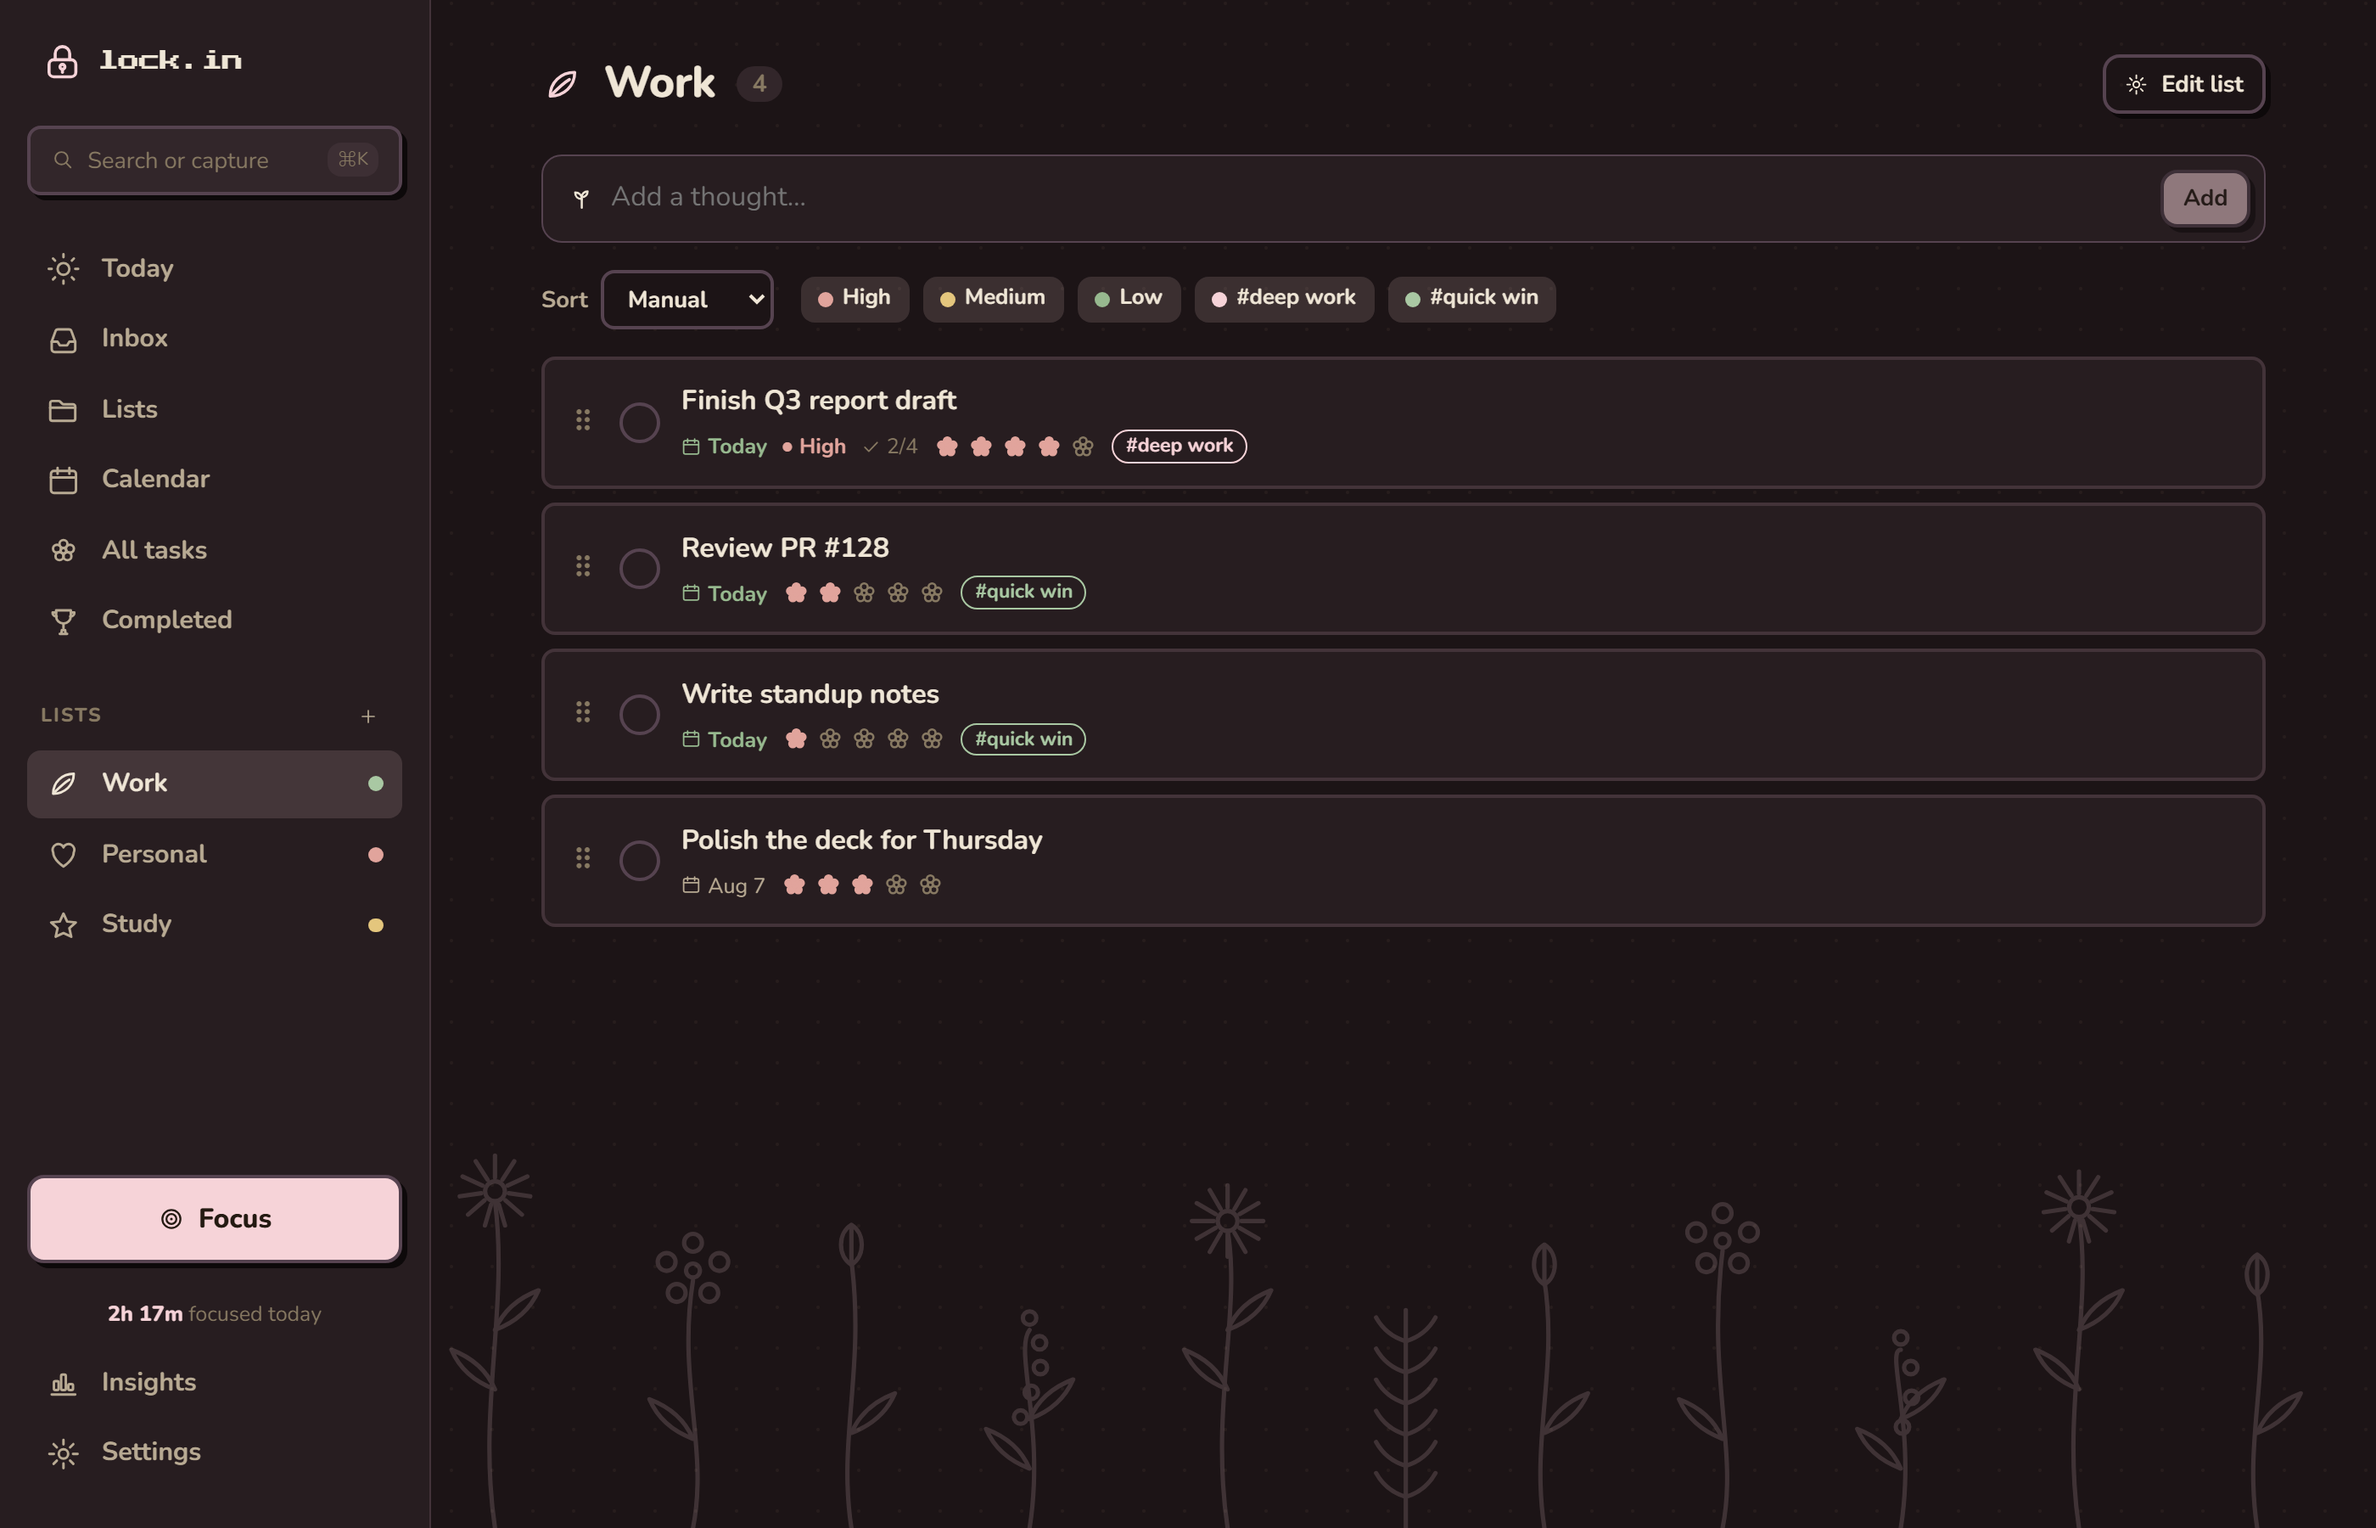
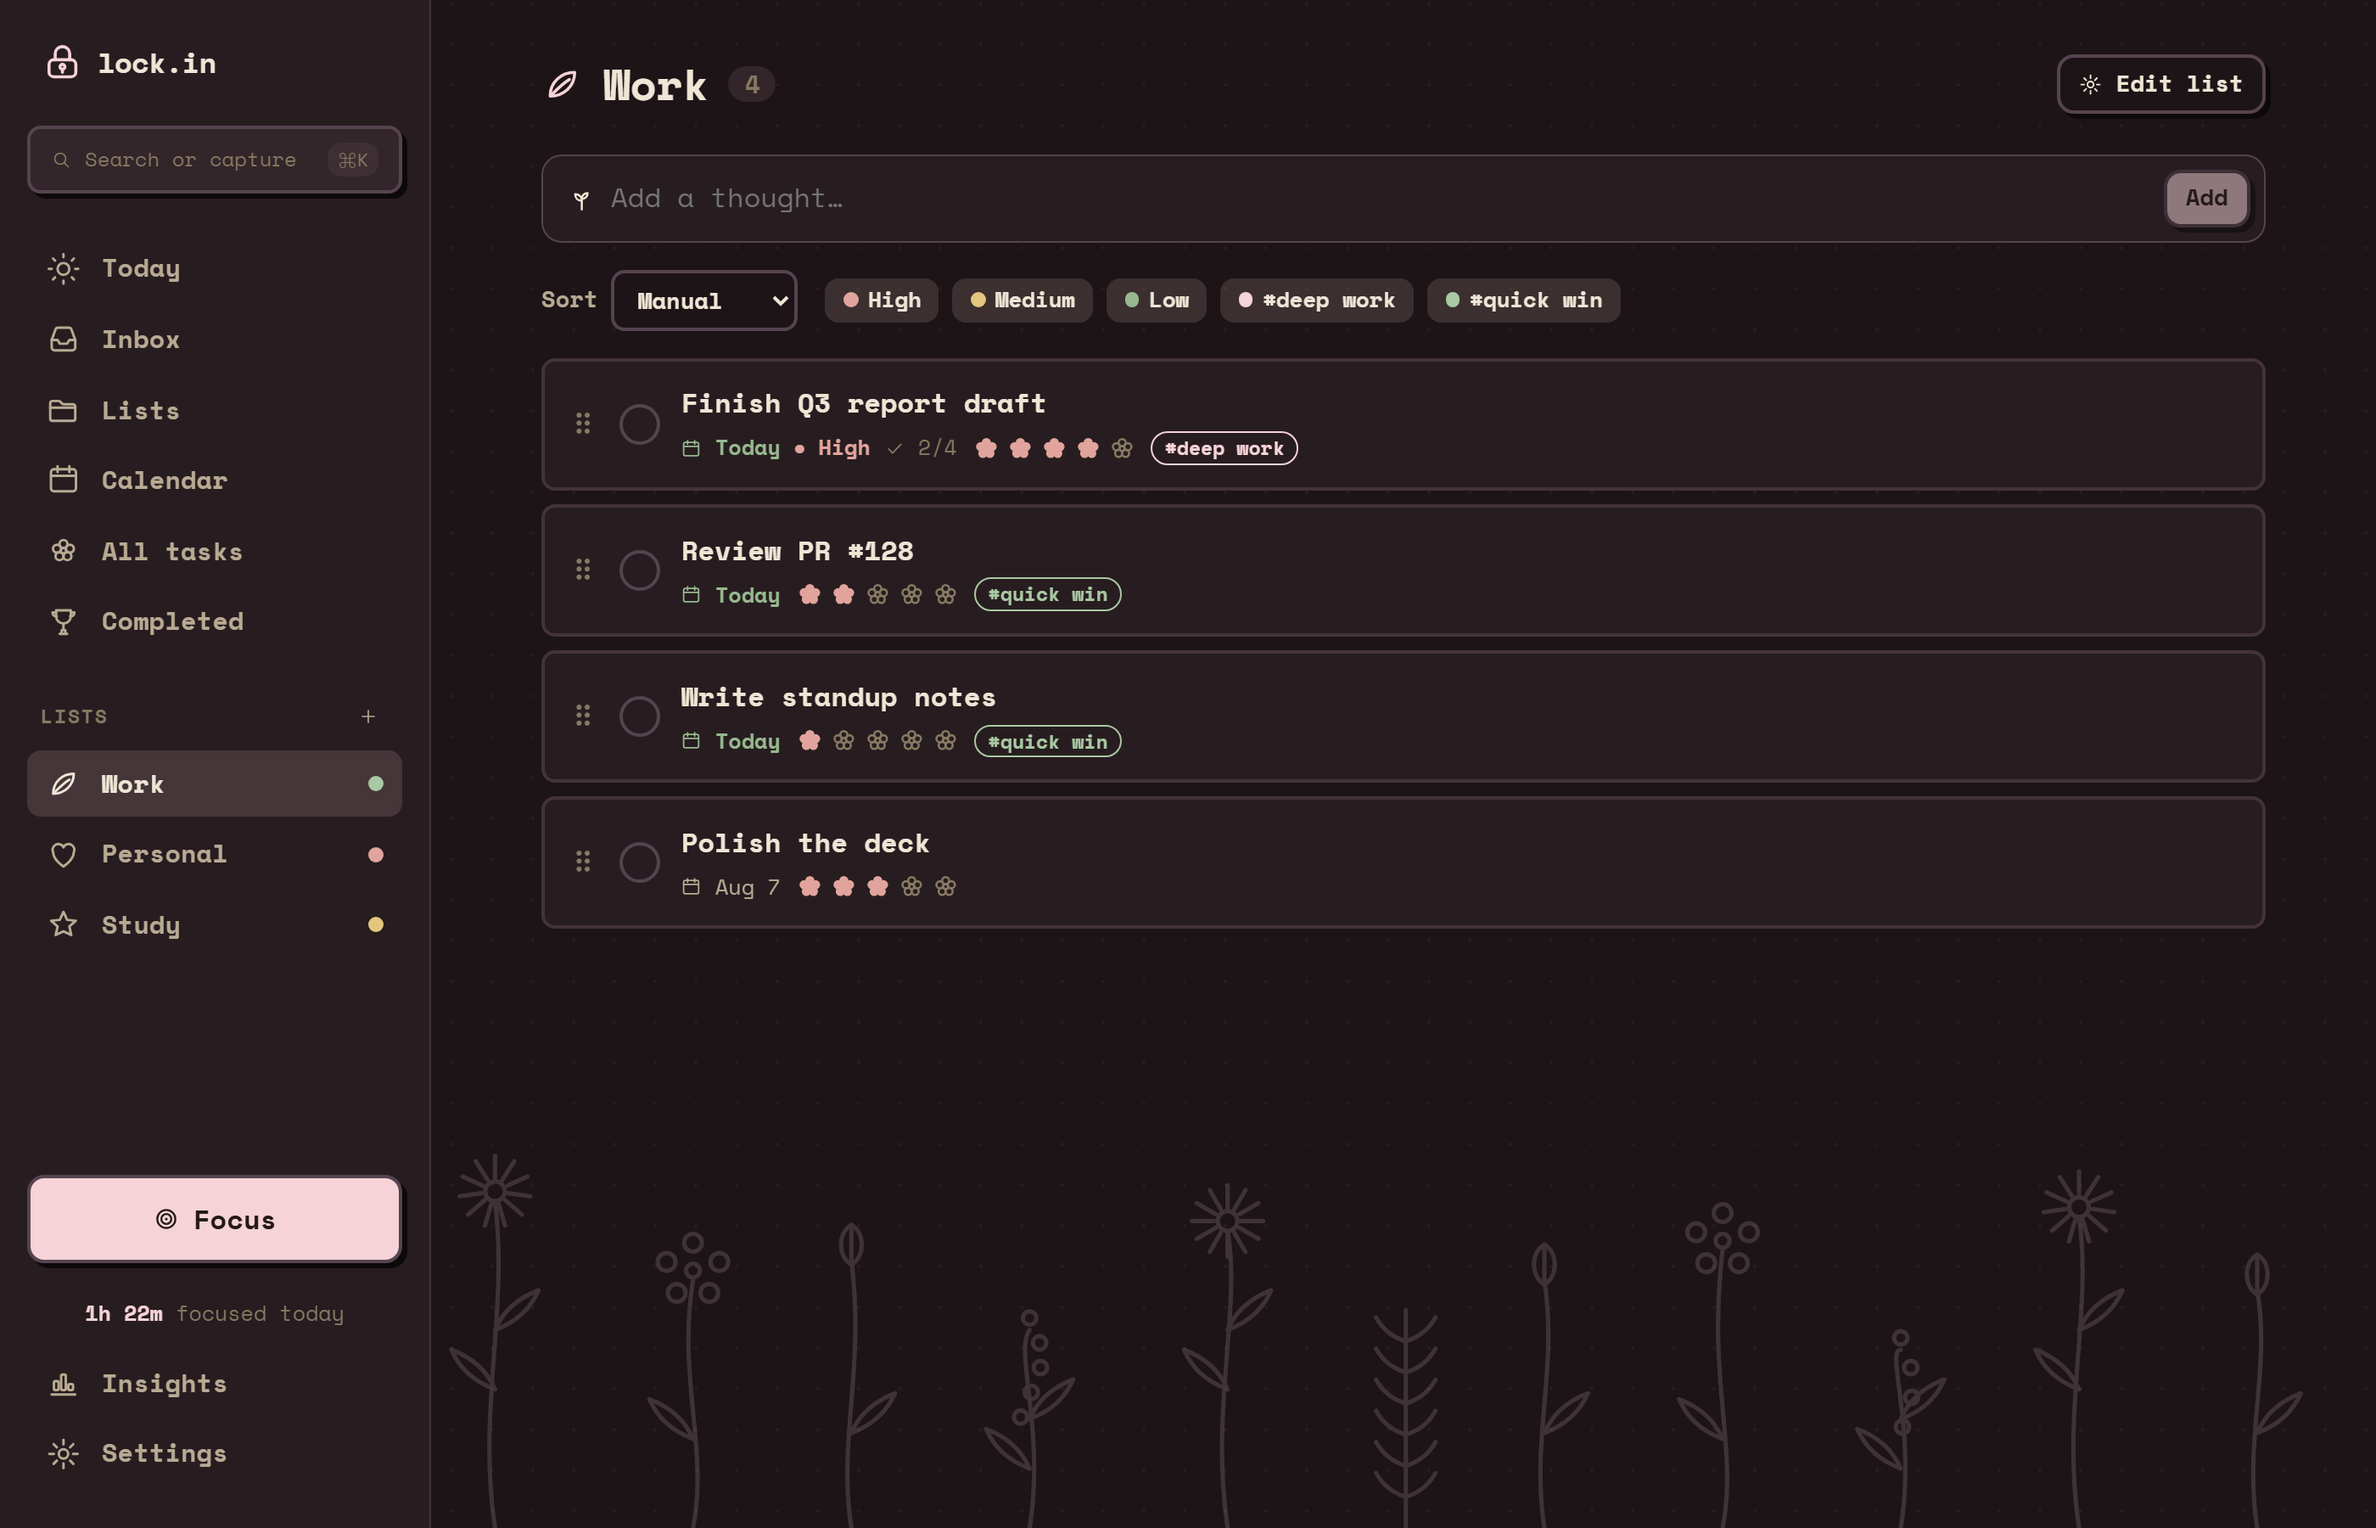
Set the app in a readable retro monospace
Press Start 2P is a true pixel face built for large accents. Used at heading
size it came out cramped and hard to read, which is exactly how 'due today &
overdue' looked.

The whole app now uses Space Mono: same old-school terminal character, but
legible at body and heading sizes. Press Start 2P is kept for one thing only -
the big focus timer - where a pixel face actually reads well. Nunito is gone
entirely, so the build ships fewer font files than before.

Two things the wider face broke, both fixed:
- The sidebar search label truncated, so it steps down a size.
- Quick capture's Add button was pushed off screen below about 1050px wide.
  An input's intrinsic width is around 20 characters and a flex item won't
  shrink past that by default, so the input needed min-width: 0 - the flexbox
  cousin of the grid 1fr trap we've hit before.

Checked across flowers/robot/plain, light and dark, retro on and off, at 1400,
1024 and phone width, watching for clipped labels as well as page overflow.

Copilot-Session: 87884037-54d0-4967-b45f-3a055d461690

diff --git a/src/theme/retro.css b/src/theme/retro.css
@@ -75,9 +75,10 @@
   display: flex;
 }
 [data-retro='on'] .panel-title {
-  font-family: var(--font-pixel);
-  font-size: 0.6rem;
-  letter-spacing: 0.02em;
+  font-family: var(--font-body);
+  font-size: 0.78rem;
+  font-weight: 700;
+  letter-spacing: 0.04em;
   text-transform: lowercase;
 }
 
@@ -132,13 +133,14 @@
   box-shadow: 3px 3px 0 var(--retro-shadow);
 }
 
-/* Section headings pick up the pixel face, small and quiet. */
+/* Section headings: same mono, just tighter and quieter than body text. */
 [data-retro='on'] .group-title,
 [data-retro='on'] .field-label {
-  font-family: var(--font-pixel);
-  font-size: 0.6rem;
-  line-height: 1.7;
-  letter-spacing: 0.02em;
+  font-family: var(--font-body);
+  font-size: 0.8rem;
+  font-weight: 700;
+  line-height: 1.5;
+  letter-spacing: 0.04em;
   text-transform: lowercase;
 }
 [data-retro='on'] .view-title {
@@ -156,16 +158,10 @@
 }
 
 [data-retro='on'] .brand-name {
-  font-family: var(--font-pixel);
-  font-size: 0.78rem;
-}
-
-/* The pixel font has no bold weight; asking for one smears it. */
-[data-retro='on'] .panel-title,
-[data-retro='on'] .group-title,
-[data-retro='on'] .field-label,
-[data-retro='on'] .brand-name {
-  font-weight: 400;
+  font-family: var(--font-body);
+  font-size: 1.05rem;
+  font-weight: 700;
+  letter-spacing: -0.02em;
 }
 
 /* ---------- Folder grid (Lists page) ---------- */
@@ -288,10 +284,10 @@
   box-shadow: 0 0 0 var(--retro-shadow);
 }
 [data-retro='on'] .folder-name {
-  font-family: var(--font-pixel);
-  font-size: 0.56rem;
-  font-weight: 400;
-  line-height: 1.6;
+  font-family: var(--font-body);
+  font-size: 0.85rem;
+  font-weight: 700;
+  line-height: 1.4;
 }
 
 @media (max-width: 600px) {

diff --git a/src/app/app.css b/src/app/app.css
@@ -428,6 +428,10 @@ span.view-icon {
 }
 .quick-add-input {
   flex: 1;
+  /* Inputs have an intrinsic min-width of ~20 characters, and a flex item
+     won't shrink past that by default — with a wider monospace face this
+     pushed the Add button off the page on narrow screens. */
+  min-width: 0;
   border: none;
   background: none;
   outline: none;
@@ -1614,7 +1618,9 @@ span.view-icon {
   background: var(--surface-2);
   color: var(--fg-subtle);
   font: inherit;
-  font-size: 0.85rem;
+  /* Monospace runs wider than the old sans face, so this needs to be a touch
+     smaller to keep "Search or capture" from truncating in the sidebar. */
+  font-size: 0.75rem;
   cursor: pointer;
   text-align: left;
 }

diff --git a/src/theme/tokens.css b/src/theme/tokens.css
@@ -243,8 +243,11 @@
   --r-xl: 28px;
   --r-pill: 999px;
 
-  --font-body: 'Nunito', system-ui, -apple-system, 'Segoe UI', sans-serif;
-  --font-pixel: 'Press Start 2P', 'Nunito', monospace;
+  --font-body: 'Space Mono', ui-monospace, 'SFMono-Regular', 'Menlo', monospace;
+  /* Reserved for the big focus timer, where a true pixel face reads well.
+     At heading sizes it turns cramped and hard to scan, so nothing small
+     uses it. */
+  --font-pixel: 'Press Start 2P', 'Space Mono', monospace;
 
   --space-1: 0.25rem;
   --space-2: 0.5rem;

diff --git a/src/main.tsx b/src/main.tsx
@@ -2,10 +2,8 @@ import { StrictMode } from 'react'
 import { createRoot } from 'react-dom/client'
 
 // Self-hosted fonts (offline-friendly PWA — no font CDN).
-import '@fontsource/nunito/400.css'
-import '@fontsource/nunito/600.css'
-import '@fontsource/nunito/700.css'
-import '@fontsource/nunito/800.css'
+import '@fontsource/space-mono/400.css'
+import '@fontsource/space-mono/700.css'
 import '@fontsource/press-start-2p/400.css'
 
 import './theme/tokens.css'

diff --git a/README.md b/README.md
@@ -98,7 +98,8 @@ picks the accent that suits it best, and you can switch anytime.
 **Retro chrome** (on by default) layers little window title bars, chunky
 outlines, and flat drop shadows over whichever vibe you're in — old-desktop
 nostalgia without touching the palette. Turn it off in Settings for a flatter,
-quieter look.
+quieter look. The whole app is set in a monospace face for that terminal feel,
+with a true pixel font saved for the focus timer.
 
 | 🌫 Plain | 🌸 Flowers | 🤖 Robot |
 |:---:|:---:|:---:|
